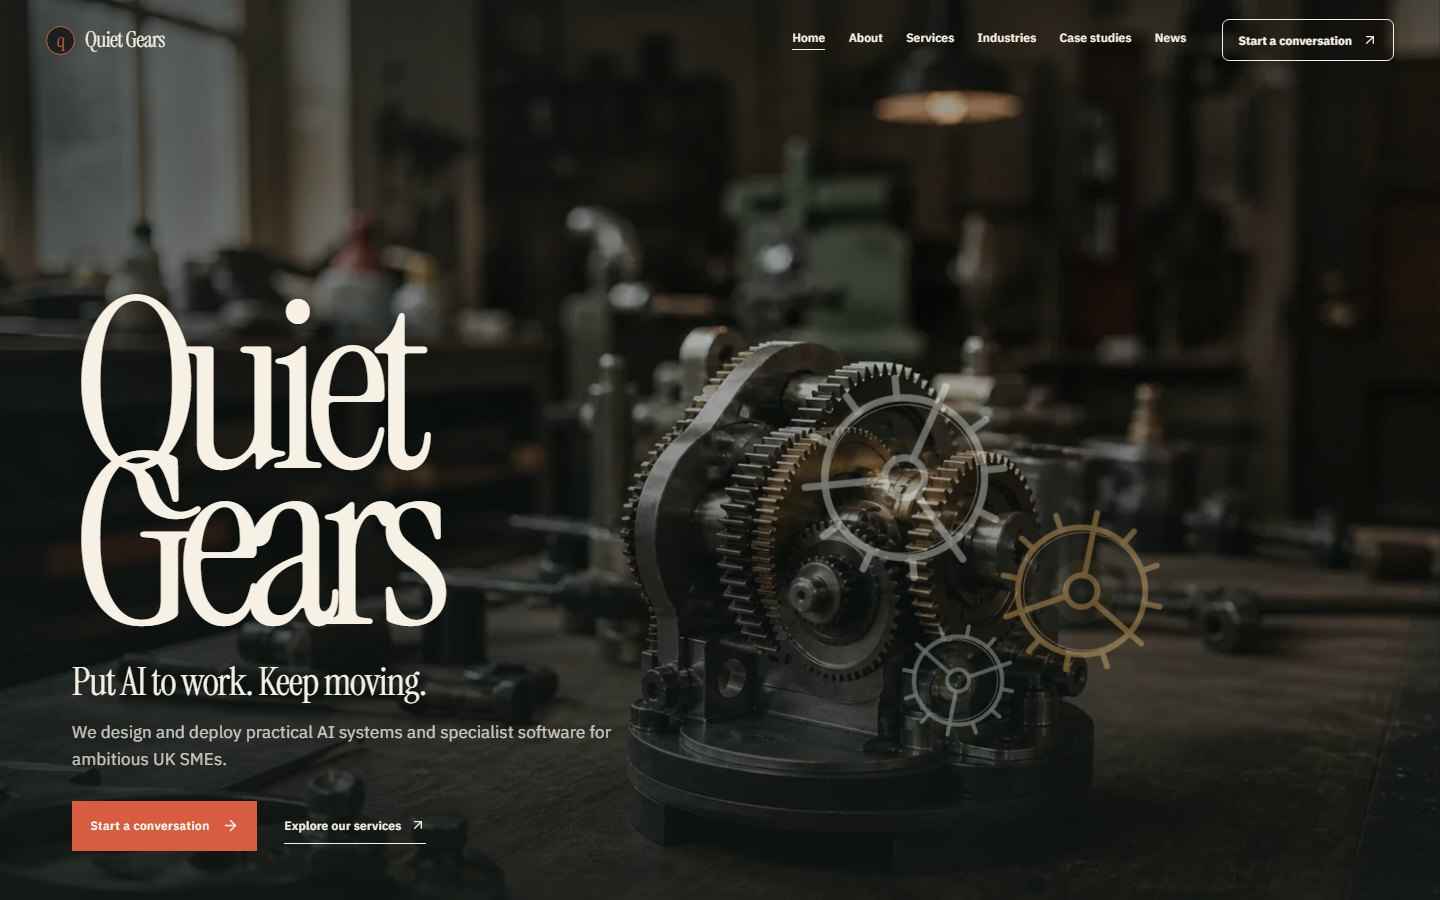
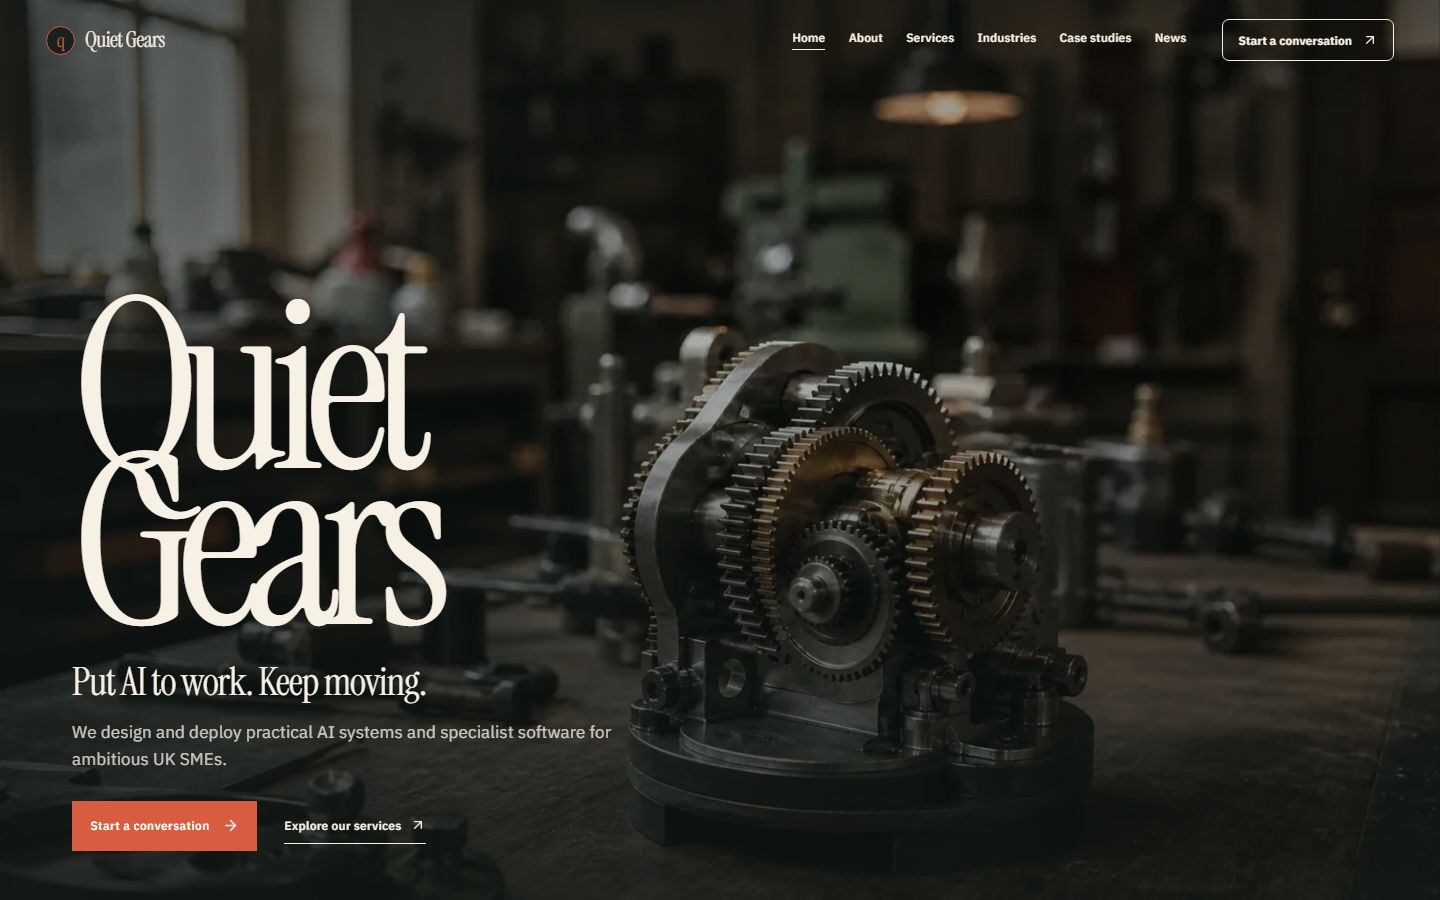
Move-image-stream-to-case-studies-hero

Changed region(s): [[0.5625, 0.4044, 0.8125, 0.8089]]

diff --git a/app/home.module.css b/app/home.module.css
@@ -2,9 +2,3 @@
 .intro,.services,.process{background-color:var(--paper);background-image:linear-gradient(rgba(73,106,102,.055) 1px,transparent 1px),linear-gradient(90deg,rgba(73,106,102,.055) 1px,transparent 1px);background-size:42px 42px}.intro{padding:clamp(6.5rem,12vw,11rem) 6vw}.introInner{max-width:1400px;margin:0 auto}.kicker{display:block;color:var(--machine);font-size:.66rem;font-weight:700;letter-spacing:.16em;text-transform:uppercase}.intro h2{max-width:1120px;margin:1.5rem 0 clamp(3rem,6vw,5.2rem);font-size:clamp(3rem,6.4vw,6.8rem);font-weight:400;line-height:.95;letter-spacing:-.055em}.introCopy{max-width:850px;margin-left:auto;display:grid;grid-template-columns:1fr 1fr;gap:clamp(2rem,6vw,6rem)}.introCopy p{margin:0;color:var(--muted);font-size:.98rem}.services{padding:clamp(6.5rem,10vw,9rem) 6vw;color:var(--ink);border-top:1px solid var(--line)}.sectionHeading{max-width:1400px;margin:0 auto clamp(3.5rem,7vw,6rem);display:grid;grid-template-columns:minmax(0,1.35fr) minmax(280px,.65fr);align-items:end;gap:8vw}.sectionHeading h2,.processHeading h2{margin:1.2rem 0 0;font-size:clamp(3.5rem,7vw,7rem);font-weight:400;line-height:.88;letter-spacing:-.055em}.sectionHeading h2 em,.processHeading h2 em{color:var(--machine);font-weight:400}.sectionHeading>p{max-width:430px;margin:0;color:var(--muted)}.serviceList{max-width:1400px;margin:0 auto;border-top:1px solid var(--ink)}.serviceReveal{width:100%}.serviceRow{position:relative;display:grid;grid-template-columns:72px minmax(220px,.65fr) minmax(300px,1fr) 32px;align-items:center;gap:2rem;min-height:132px;border-bottom:1px solid var(--line)}.serviceRow::after{content:'';position:absolute;left:0;right:100%;bottom:-1px;height:2px;background:var(--signal);transition:right .38s cubic-bezier(.2,.72,.2,1)}.serviceRow:hover::after{right:0}.serviceRow:hover svg{transform:translate(4px,-4px);color:var(--signal)}.serviceNumber{color:var(--machine);font-size:.68rem;font-weight:700}.serviceRow h3{margin:0;font-size:clamp(1.6rem,2.4vw,2.45rem);font-weight:400}.serviceRow p{max-width:580px;margin:0;color:var(--muted);font-size:.9rem}.serviceRow svg{justify-self:end;width:21px;color:var(--machine)}.allServices{margin:2.8rem auto 0}.process{padding:clamp(6.5rem,11vw,10rem) 6vw;display:grid;grid-template-columns:minmax(320px,.8fr) minmax(440px,1.2fr);gap:10vw;border-top:1px solid var(--line)}.processHeading{max-width:600px}.processHeading h2{font-size:clamp(3.4rem,6vw,6rem)}.processHeading>p{max-width:490px;margin:2rem 0;color:var(--muted)}.processLink{color:var(--ink)}.processSteps{margin:0;padding:0;list-style:none;border-top:1px solid var(--ink)}.processSteps li{display:grid;grid-template-columns:70px 1fr;gap:1.5rem;padding:2.2rem 0;border-bottom:1px solid var(--line)}.processSteps li>span{color:var(--machine);font-size:.68rem;font-weight:700}.processSteps h3{margin:0 0 .5rem;font-size:clamp(1.5rem,2.2vw,2.15rem);font-weight:400}.processSteps p{max-width:520px;margin:0;color:var(--muted);font-size:.9rem}
 .cta{padding:clamp(6.5rem,11vw,10rem) 6vw;text-align:center;color:#f7f0e5;background:radial-gradient(circle at 14% 15%,rgba(183,137,69,.26),transparent 28%),linear-gradient(135deg,var(--machine),#263d3a 58%,var(--ink))}.cta .kicker{color:#d9bd8f}.cta h2{margin:1.25rem 0;font-size:clamp(3.8rem,8vw,8.5rem);font-weight:400;line-height:.84;letter-spacing:-.06em}.cta p{max-width:560px;margin:0 auto;color:rgba(247,240,229,.72)}.ctaAction{margin-top:2rem}.primaryAction:focus-visible,.secondaryAction:focus-visible,.serviceRow:focus-visible,.allServices:focus-visible,.processLink:focus-visible,.ctaAction:focus-visible{outline:3px solid #f0b29e;outline-offset:4px}@keyframes imageSettle{from{opacity:.5;transform:scale(1.045)}to{opacity:1;transform:scale(1)}}@keyframes typeRise{to{opacity:1;transform:translateY(0)}}
 @media(max-width:1000px){.serviceRow{grid-template-columns:52px minmax(190px,.75fr) 1fr 26px;gap:1.2rem}.process{gap:6vw}}@media(max-width:800px){.hero{min-height:760px;height:100svh;max-height:940px}.heroShade{background:linear-gradient(180deg,rgba(16,23,21,.62),rgba(16,23,21,.2) 38%,rgba(16,23,21,.82)),linear-gradient(90deg,rgba(16,23,21,.35),rgba(16,23,21,.08))}.heroContent{padding:132px 24px 4.5vh}.wordmark{font-size:clamp(6.2rem,31vw,9rem);line-height:.69}.heroHeadline{margin-top:3.2vh;font-size:clamp(1.55rem,7vw,2.15rem)}.heroSupport{max-width:390px;font-size:.91rem}.heroActions{align-items:flex-start;flex-direction:column;gap:.8rem;margin-top:1.3rem}.intro,.services,.process{padding:6rem 24px}.introCopy{grid-template-columns:1fr;gap:1.2rem}.sectionHeading{grid-template-columns:1fr;gap:1.6rem}.serviceRow{grid-template-columns:38px 1fr 24px;gap:.75rem;padding:1.6rem 0}.serviceRow h3{grid-column:2}.serviceRow p{grid-column:2/-1}.serviceRow svg{grid-column:3;grid-row:1}.process{grid-template-columns:1fr;gap:4rem}.cta{padding:6rem 24px}}@media(max-width:420px){.wordmark{font-size:clamp(5.6rem,29vw,7.6rem)}.heroContent{padding-bottom:28px}.primaryAction{min-height:46px}}@media(prefers-reduced-motion:reduce){.heroMedia,.wordmark span,.heroHeadline,.heroSupport,.heroActions{animation:none;opacity:1;transform:none}.serviceRow::after,.serviceRow svg,.primaryAction,.ctaAction,.allServices{transition:none}}
-
-.rotatingGears{position:absolute;z-index:0;right:12vw;bottom:7vh;width:min(34vw,540px);aspect-ratio:1;pointer-events:none;opacity:.48;mix-blend-mode:screen;filter:drop-shadow(0 16px 24px rgba(4,10,9,.46))}.rotatingGears span{position:absolute;display:block;aspect-ratio:1;border-radius:50%;transform-origin:50% 50%;will-change:transform}.rotatingGears span::before{content:'';position:absolute;inset:19%;border:1px solid currentColor;border-radius:50%;background:radial-gradient(circle,rgba(8,14,13,.72) 0 18%,rgba(183,137,69,.2) 19% 38%,rgba(8,14,13,.5) 39% 62%,transparent 63%)}.rotatingGears svg{position:relative;width:100%;height:100%;stroke-width:.72}.gearOne{left:1%;top:2%;width:49%;color:rgba(219,226,220,.88);animation:gearClockwise 13s linear infinite}.gearTwo{left:43%;top:30%;width:39%;color:rgba(210,158,83,.92);animation:gearCounterClockwise 9s linear infinite}.gearThree{left:23%;top:54%;width:27%;color:rgba(189,200,194,.86);animation:gearClockwise 7s linear infinite}@keyframes gearClockwise{to{transform:rotate(360deg)}}@keyframes gearCounterClockwise{to{transform:rotate(-360deg)}}
-
-@media(max-width:800px){.rotatingGears{right:-20vw;bottom:23vh;width:68vw;opacity:.42}.gearOne{left:0;top:3%}.gearTwo{left:42%;top:31%}.gearThree{left:22%;top:55%}}
-
-@media(prefers-reduced-motion:reduce){.rotatingGears span{animation:none}}

diff --git a/app/case-studies/page.tsx b/app/case-studies/page.tsx
@@ -1,21 +1,40 @@
 import Image from 'next/image';
 import Link from 'next/link';
 import { ArrowUpRight } from 'lucide-react';
-import { HeroMechanism, MechanicalMark } from '@/components/MechanicalVisuals';
+import { MechanicalMark } from '@/components/MechanicalVisuals';
+import { ImageStreamHero } from '@/components/ui/image-stream-hero';
 import { cases } from '@/lib/content';
+import styles from './case-studies.module.css';
 
 export const metadata = { title: 'Case studies' };
+
+const streamImages = cases.map((study) => ({
+  src: study.image,
+  alt: study.title,
+}));
 
 export default function Cases() {
   return (
     <>
-      <section className="page-hero report-hero report-hero-layout">
-        <div className="report-hero-copy"><span className="kicker">Case studies</span>
-          <h1>From operational friction<br/><em>to working systems.</em></h1>
-          <p>Narrative engagement papers that begin with an operating moment, trace the commercial and control tension, then show how evidence becomes a bounded release. Illustrative work and in-progress outcomes are labelled clearly.</p>
-          <div className="section-proof"><div><strong>{cases.length}</strong><span>Detailed studies</span></div><div><strong>5</strong><span>Operating sectors</span></div><div><strong>4</strong><span>Prose-led decision lenses per case</span></div></div>
+      <ImageStreamHero
+        images={streamImages}
+        cards={10}
+        speed={20}
+        axis={57}
+        className={styles.hero}
+      >
+        <div className={styles.heroContent}>
+          <div className={styles.heroLead}>
+            <span className="kicker">Case studies</span>
+            <h1>From operational friction<br/><em>to working systems.</em></h1>
+          </div>
+          <p className={styles.heroSummary}>Narrative engagement papers that begin with an operating moment, trace the commercial and control tension, then show how evidence becomes a bounded release. Illustrative work and in-progress outcomes are labelled clearly.</p>
         </div>
-        <HeroMechanism compact/>
+      </ImageStreamHero>
+      <section className={styles.proof} aria-label="Case study collection at a glance">
+        <div><strong>{cases.length}</strong><span>Detailed studies</span></div>
+        <div><strong>5</strong><span>Operating sectors</span></div>
+        <div><strong>4</strong><span>Prose-led decision lenses per case</span></div>
       </section>
       <section className="case-list expanded-case-list">
         <div className="collection-heading"><span>Selected work</span><p>Each paper combines commercial context, operating detail and a technical blueprint.</p></div>

diff --git a/app/case-studies/case-studies.module.css b/app/case-studies/case-studies.module.css
@@ -1,0 +1,128 @@
+.hero {
+  width: 100%;
+  height: 100svh;
+  min-height: 760px;
+  max-height: 940px;
+  color: var(--ink);
+  background:
+    radial-gradient(circle at 50% 56%, rgba(183, 137, 69, 0.16), transparent 28%),
+    linear-gradient(rgba(73, 106, 102, 0.045) 1px, transparent 1px),
+    linear-gradient(90deg, rgba(73, 106, 102, 0.045) 1px, transparent 1px),
+    var(--paper);
+  background-size: auto, 42px 42px, 42px 42px, auto;
+  border-bottom: 1px solid var(--line);
+}
+
+.heroContent {
+  position: relative;
+  z-index: 10;
+  display: flex;
+  height: 100%;
+  flex-direction: column;
+  align-items: center;
+  justify-content: space-between;
+  padding: 172px 6vw 64px;
+  text-align: center;
+  pointer-events: none;
+}
+
+.heroLead {
+  max-width: 1180px;
+}
+
+.heroLead h1 {
+  max-width: 1100px;
+  margin: 1.35rem auto 0;
+  font-size: clamp(4.2rem, 8vw, 8.8rem);
+  font-weight: 400;
+  line-height: 0.88;
+  letter-spacing: -0.06em;
+}
+
+.heroLead h1 em {
+  color: var(--machine);
+  font-weight: 400;
+}
+
+.heroSummary {
+  max-width: 680px;
+  margin: 0;
+  color: var(--muted);
+  font-size: clamp(0.88rem, 1.2vw, 1rem);
+  line-height: 1.65;
+}
+
+.proof {
+  display: grid;
+  max-width: 1380px;
+  margin: 0 auto;
+  grid-template-columns: repeat(3, 1fr);
+  border-bottom: 1px solid var(--line);
+}
+
+.proof div {
+  min-height: 132px;
+  padding: 2rem 2.5rem;
+  border-right: 1px solid var(--line);
+}
+
+.proof div:last-child {
+  border-right: 0;
+}
+
+.proof strong,
+.proof span {
+  display: block;
+}
+
+.proof strong {
+  color: var(--machine);
+  font: 400 2rem/1 var(--display);
+}
+
+.proof span {
+  margin-top: 0.75rem;
+  color: var(--muted);
+  font-size: 0.63rem;
+  font-weight: 700;
+  letter-spacing: 0.1em;
+  text-transform: uppercase;
+}
+
+@media (max-width: 800px) {
+  .hero {
+    min-height: 760px;
+    max-height: 900px;
+  }
+
+  .heroContent {
+    padding: 132px 24px 46px;
+  }
+
+  .heroLead h1 {
+    margin-top: 1.1rem;
+    font-size: clamp(3.25rem, 15.5vw, 5rem);
+    line-height: 0.92;
+  }
+
+  .heroSummary {
+    max-width: 360px;
+    font-size: 0.84rem;
+  }
+
+  .proof {
+    grid-template-columns: 1fr;
+    margin: 0 24px;
+  }
+
+  .proof div {
+    min-height: 0;
+    padding: 1.35rem 0;
+    border-right: 0;
+    border-bottom: 1px solid var(--line);
+  }
+
+  .proof div:last-child {
+    border-bottom: 0;
+  }
+}

diff --git a/app/page.tsx b/app/page.tsx
@@ -1,6 +1,6 @@
 import { getImageProps } from 'next/image';
 import Link from 'next/link';
-import { ArrowRight, ArrowUpRight, Cog } from 'lucide-react';
+import { ArrowRight, ArrowUpRight } from 'lucide-react';
 import { Reveal } from '@/components/Reveal';
 import styles from './home.module.css';
 
@@ -38,23 +38,12 @@ function HeroImage() {
   );
 }
 
-function RotatingGears() {
-  return (
-    <div className={styles.rotatingGears} aria-hidden="true">
-      <span className={styles.gearOne}><Cog /></span>
-      <span className={styles.gearTwo}><Cog /></span>
-      <span className={styles.gearThree}><Cog /></span>
-    </div>
-  );
-}
-
 export default function Home() {
   return (
     <>
       <section className={styles.hero} aria-labelledby="home-title">
         <HeroImage />
         <div className={styles.heroShade} />
-        <RotatingGears />
         <div className={styles.heroContent}>
           <h1 id="home-title" className={styles.wordmark}><span>Quiet</span><span>Gears</span></h1>
           <p className={styles.heroHeadline}>Put AI to work. Keep moving.</p>
